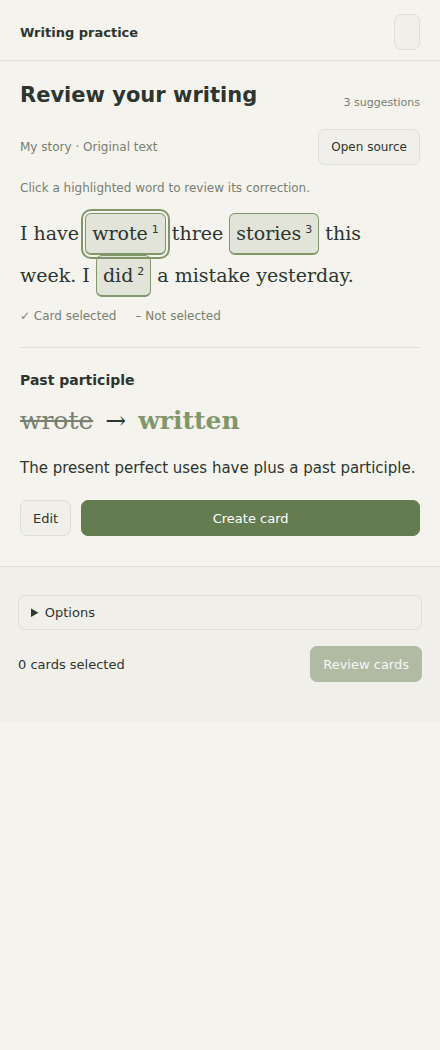
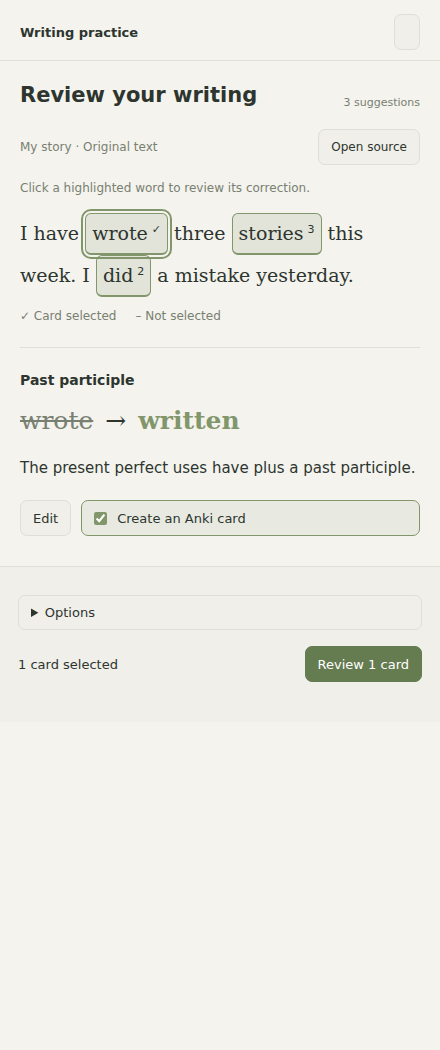
Use a clear card checkbox selected by default for new corrections

diff --git a/tests/ui/writing.spec.ts b/tests/ui/writing.spec.ts
@@ -1,31 +1,37 @@
 import { test, expect, type Page } from '@playwright/test';
 const button = (p: Page, name: string) => p.getByRole('button', { name, exact: true });
+const choice = (p: Page) => p.getByRole('checkbox', { name: 'Create an Anki card', exact: true });
 const word = (p: Page, text: string) => p.locator('.cc-writing-word').filter({ hasText: text });
 async function selectTwo(p: Page) {
-  await button(p, 'Create card').click();
+  await choice(p).check();
   await word(p, 'did').click();
-  await button(p, 'Create card').click();
+  await choice(p).check();
 }
 test.beforeEach(async ({ page }) => {
   await page.setViewportSize({ width: 440, height: 1050 });
   await page.goto('/?writing=1');
+  await page.evaluate(() => {
+    const p = (window as any).writingPreview;
+    p.session.findings[1].selected = false;
+    p.view.show(p.session);
+  });
 });
-test('two correction actions toggle inclusion without navigation or generation', async ({
+test('Edit and the labeled checkbox change inclusion without navigation or generation', async ({
   page,
 }) => {
-  await expect(page.locator('.cc-writing-decisions button')).toHaveText(['Edit', 'Create card']);
+  await expect(page.locator('.cc-writing-decisions button')).toHaveText(['Edit']);
   await expect(button(page, 'Skip')).toHaveCount(0);
   await expect(button(page, 'Undo')).toHaveCount(0);
-  await button(page, 'Create card').click();
-  await expect(button(page, "Don't create card")).toBeVisible();
+  await choice(page).check();
+  await expect(choice(page)).toBeChecked();
   await expect(page.getByRole('heading', { name: 'Past participle', exact: true })).toBeVisible();
   expect(
     await page.evaluate(() => (window as any).writingPreview.session.findings[0].card),
   ).toBeUndefined();
   await expect(word(page, 'wrote')).toHaveClass(/is-kept/);
   await expect(button(page, 'Review 1 card')).toBeEnabled();
-  await button(page, "Don't create card").click();
-  await expect(button(page, 'Create card')).toBeVisible();
+  await choice(page).uncheck();
+  await expect(choice(page)).toBeVisible();
   await expect(word(page, 'wrote')).not.toHaveClass(/is-kept/);
   await expect(button(page, 'Review cards')).toBeDisabled();
   await expect(page.getByRole('heading', { name: 'Past participle', exact: true })).toBeVisible();
@@ -34,10 +40,22 @@ test('two correction actions toggle inclusion without navigation or generation',
     p.session.findings = p.session.findings.slice(0, 1);
     p.view.show(p.session);
   });
-  await button(page, 'Create card').click();
-  await button(page, "Don't create card").click();
+  await choice(page).check();
+  await choice(page).uncheck();
   await expect(button(page, 'Finish review')).toBeEnabled();
-  await expect(button(page, 'Create card')).toBeEnabled();
+  await expect(choice(page)).toBeEnabled();
+});
+test('new analysis defaults to checked grammar/vocabulary, with style excluded', async ({
+  page,
+}) => {
+  await page.goto('/?writing=1');
+  await expect(choice(page)).toBeChecked();
+  await expect(button(page, 'Review 2 cards')).toBeEnabled();
+  await word(page, 'did').click();
+  await expect(choice(page)).toBeChecked();
+  await word(page, 'stories').click();
+  await expect(choice(page)).not.toBeChecked();
+  await expect(choice(page)).toBeDisabled();
 });
 test('word navigation preserves independent choices and exports the selected batch', async ({
   page,
@@ -46,7 +64,7 @@ test('word navigation preserves independent choices and exports the selected bat
   await page.screenshot({ path: '.test-artifacts/writing-panel.png', fullPage: true });
   await selectTwo(page);
   await word(page, 'wrote').click();
-  await expect(button(page, "Don't create card")).toBeVisible();
+  await expect(choice(page)).toBeVisible();
   await button(page, 'Review 2 cards').click();
   await expect(page.locator('.cc-writing-preview')).toHaveCount(2);
   await expect(page.locator('.cc-writing-question mark')).toHaveText(['wrote', 'did']);
@@ -81,12 +99,12 @@ test('editing keeps focus, cancels safely, validates and supports gap cards', as
   await page.locator('[data-writing-section=edit-details]>summary').click();
   await page.getByLabel('Exercise type').selectOption('gap');
   await button(page, 'Save changes').click();
-  await button(page, 'Create card').click();
+  await choice(page).check();
   await button(page, 'Review 1 card').click();
   await expect(page.locator('.cc-writing-question .cc-gap')).toHaveCount(1);
 });
 test('generation failure keeps choices and retry opens previews', async ({ page }) => {
-  await button(page, 'Create card').click();
+  await choice(page).check();
   await page.evaluate(() => ((window as any).writingPreview.controls.failGenerate = true));
   await button(page, 'Review 1 card').click();
   await expect(page.getByRole('alert')).toContainText('after retry');
@@ -95,7 +113,7 @@ test('generation failure keeps choices and retry opens previews', async ({ page 
   await expect(page.locator('.cc-writing-preview')).toHaveCount(1);
 });
 test('prepared fields can be edited without regenerating the correction', async ({ page }) => {
-  await button(page, 'Create card').click();
+  await choice(page).check();
   await button(page, 'Review 1 card').click();
   await page
     .locator('.cc-writing-preview')
@@ -109,14 +127,14 @@ test('prepared fields can be edited without regenerating the correction', async 
   await expect(page.getByText('My own helpful explanation.', { exact: true })).toBeVisible();
 });
 test('cancellation stays on the correction and preserves the toggle state', async ({ page }) => {
-  await button(page, 'Create card').click();
+  await choice(page).check();
   await page.evaluate(() => ((window as any).writingPreview.controls.deferGenerate = true));
   await button(page, 'Review 1 card').click();
   await expect(page.getByRole('status')).toContainText('Preparing');
   await button(page, 'Cancel').click();
   await expect(page.getByRole('alert')).toContainText('Cancelled');
   await expect(page.locator('.cc-writing-preview')).toHaveCount(0);
-  await expect(button(page, "Don't create card")).toBeEnabled();
+  await expect(choice(page)).toBeEnabled();
 });
 test('partial export retries only remaining notes and locks successful edits', async ({ page }) => {
   await selectTwo(page);
@@ -140,14 +158,14 @@ test('excluding a correction removes it from export and preserves its prepared c
   await button(page, 'Review 2 cards').click();
   await button(page, '← Corrections').click();
   await word(page, 'did').click();
-  await button(page, "Don't create card").click();
+  await choice(page).uncheck();
   await expect(button(page, 'Review 1 card')).toBeEnabled();
   expect(
     await page.evaluate(() => (window as any).writingPreview.session.findings[1].card),
   ).toBeTruthy();
-  await button(page, 'Create card').click();
+  await choice(page).check();
   await expect(button(page, 'Review 2 cards')).toBeEnabled();
-  await button(page, "Don't create card").click();
+  await choice(page).uncheck();
   await button(page, 'Review 1 card').click();
   await expect(page.locator('.cc-writing-preview')).toHaveCount(1);
   await button(page, 'Add 1 card to Anki').click();
@@ -160,8 +178,8 @@ test('style feedback has two controls with card creation disabled and narrow lay
 }) => {
   await page.setViewportSize({ width: 320, height: 1000 });
   await word(page, 'stories').click();
-  await expect(page.locator('.cc-writing-decisions button')).toHaveText(['Edit', 'Create card']);
-  await expect(button(page, 'Create card')).toBeDisabled();
+  await expect(page.locator('.cc-writing-decisions button')).toHaveText(['Edit']);
+  await expect(choice(page)).toBeDisabled();
   await expect(button(page, 'Edit')).toBeEnabled();
   await expect(
     page.getByText('Optional style suggestion. No practice card is needed.'),

diff --git a/src/writing-view.ts b/src/writing-view.ts
@@ -297,11 +297,6 @@ export class WritingView extends ItemView {
     change.createSpan({ text: '→', attr: { 'aria-hidden': 'true' } });
     change.createEl('ins', { text: f.after || '(remove)' });
     body.createEl('p', { cls: 'cc-writing-why', text: f.explanation });
-    if (f.dismissed)
-      body.createEl('p', {
-        cls: 'cc-muted',
-        text: 'Not selected for a card.',
-      });
     if (f.noteId) {
       body.createEl('p', { cls: 'cc-writing-success', text: 'Already added to Anki.' });
       this.button(body, 'Open in Anki', () => void this.host.openAnki([f.noteId!]));
@@ -327,12 +322,21 @@ export class WritingView extends ItemView {
     } catch {
       valid = false;
     }
-    this.button(
-      decisions,
-      f.noteId ? 'Added to Anki' : f.selected ? "Don't create card" : 'Create card',
-      () => this.decide(s, f, !f.selected),
-      true,
-    ).disabled = busy || !!f.noteId || !valid || (f.kind !== 'grammar' && f.kind !== 'vocabulary');
+    const toggle = decisions.createEl('label', { cls: 'cc-writing-card-toggle' });
+    toggle.dataset.writingCardToggle = '';
+    const checkbox = toggle.createEl('input', { type: 'checkbox' });
+    checkbox.checked = f.selected || !!f.noteId;
+    checkbox.disabled =
+      busy || !!f.noteId || !valid || (f.kind !== 'grammar' && f.kind !== 'vocabulary');
+    toggle.classList.toggle('is-selected', checkbox.checked);
+    toggle.classList.toggle('is-disabled', checkbox.disabled);
+    toggle.createSpan({ text: 'Create an Anki card' });
+    checkbox.addEventListener('change', () => {
+      this.decide(s, f, checkbox.checked);
+      this.contentEl
+        .querySelector<HTMLInputElement>('[data-writing-card-toggle] input')
+        ?.focus({ preventScroll: true });
+    });
   }
   private renderEditor(body: HTMLElement, s: WritingSession, f: WritingFinding) {
     body.createEl('h2', { text: 'Edit correction' });

diff --git a/tests/writing.test.ts b/tests/writing.test.ts
@@ -139,13 +139,13 @@ describe('writing analysis and practice validation', () => {
     };
     expect(isolatedQuestion(f, [f, other])).toBe('She has wrote stories.');
   });
-  it('accepts genuine quotes, deduplicates targets and leaves every card unselected', () => {
+  it('accepts genuine quotes, deduplicates targets and selects corrections by default', () => {
     const r = parseWritingAnalysis(
       JSON.stringify({ summary: 'One issue.', findings: [finding, finding] }),
       source,
     );
     expect(r.findings).toHaveLength(1);
-    expect(r.findings[0]!.selected).toBe(false);
+    expect(r.findings[0]!.selected).toBe(true);
     expect(correctedSentence(r.findings[0]!)).toBe('I have written three stories this week.');
   });
   it('rejects invented source quotes and ambiguous targets', () => {
@@ -261,6 +261,8 @@ describe('writing analysis and practice validation', () => {
     const restored = restoreWritingSessions([s]);
     expect(restored[0]!.phase).toBe('idle');
     expect(restored[0]!.findings[0]!.noteId).toBe(42);
+    f.selected=false;
+    expect(restoreWritingSessions([s])[0]!.findings[0]!.selected).toBe(false);
     expect(restoreWritingSessions([{ ...s, capture: {} }])).toEqual([]);
   });
 });

diff --git a/styles.css b/styles.css
@@ -528,6 +528,36 @@
 .cc-writing-decisions .mod-cta {
   flex: 1;
 }
+.cc-writing-card-toggle {
+  display: flex;
+  flex: 1;
+  align-items: center;
+  gap: 10px;
+  padding: 8px 12px;
+  min-height: 36px;
+  border: 1px solid var(--cc-line);
+  border-radius: 7px;
+  background: var(--background-secondary);
+  cursor: pointer;
+}
+.cc-writing-card-toggle.is-selected {
+  border-color: var(--cc-accent);
+  background: color-mix(in srgb, var(--cc-accent) 15%, var(--background-primary));
+}
+.cc-writing-card-toggle input {
+  margin: 0;
+  flex-shrink: 0;
+  accent-color: var(--cc-accent);
+  cursor: inherit;
+}
+.cc-writing-card-toggle.is-disabled {
+  opacity: 0.5;
+  cursor: not-allowed;
+}
+.cc-writing-card-toggle:focus-within {
+  outline: 2px solid var(--cc-accent);
+  outline-offset: 2px;
+}
 .cc-writing-preview {
   border: 1px solid var(--cc-line);
   border-radius: 10px;

diff --git a/src/writing.ts b/src/writing.ts
@@ -174,7 +174,7 @@ export function parseWritingAnalysis(
       explanation: str(item.explanation, 'explanation'),
       tip: str(item.tip, 'tip', 500),
       pattern: str(item.pattern, 'pattern', 300),
-      selected: false,
+      selected: item.kind === 'grammar' || item.kind === 'vocabulary',
       format: item.recommended_format === 'gap' ? 'gap' : 'correction',
     };
     if (!f.title || !f.original || !source.includes(f.original) || !f.explanation)

diff --git a/docs/SETUP.md b/docs/SETUP.md
@@ -224,7 +224,7 @@ Writing practice is a separate mode. Existing vocabulary capture still works wit
 1. Select a paragraph of your own English writing in Reading Mode or Live Preview, up to **6,000 characters**.
 2. Click **Check writing** beside the selection, or run **Context Cards: Check selected writing** from the command palette. There is also a context-menu entry.
 3. Click a highlighted word in **Original text** to inspect its correction and explanation. The original note is never automatically corrected or marked by this mode.
-4. Each correction has two actions: **Edit** and **Create card**. Create card selects it for the batch and changes to **Don't create card**, which excludes it again. This toggle stays on the same correction; click another highlighted word to move on. A check mark means selected, and a dash means excluded. Exercises are prepared only when you click **Review N cards** below.
+4. Beside **Edit**, the **Create an Anki card** checkbox controls whether this correction is included in the batch. Grammar and vocabulary corrections are checked by default after analysis; optional style, unclear meaning and typos stay unchecked. Uncheck any card you do not want. The label stays the same and the current word stays open. Saved choices are preserved when reopening a review. Exercises are prepared only when you click **Review N cards** below.
 5. Click **Edit** to change a correction. Changes apply only after **Save changes**; **Cancel** discards them. **More details** contains the tip, issue metadata, exercise type and prepared card fields. Changing the underlying correction invalidates its exercise. Typing keeps focus.
 6. Click **Review N cards** to prepare the selected exercises. Review their questions and answers together, remove any unwanted card, then **Add N cards to Anki**. This saves the review and exports the batch. **← Corrections** returns to the original text without losing your choices. You can review your current selection before deciding on every suggestion.
 7. **Options** in the footer contains the writing deck and **Recheck selection**. The review selector appears at the top only when there is more than one review. When all corrections are excluded, **Finish review** completes the review without exporting cards.
